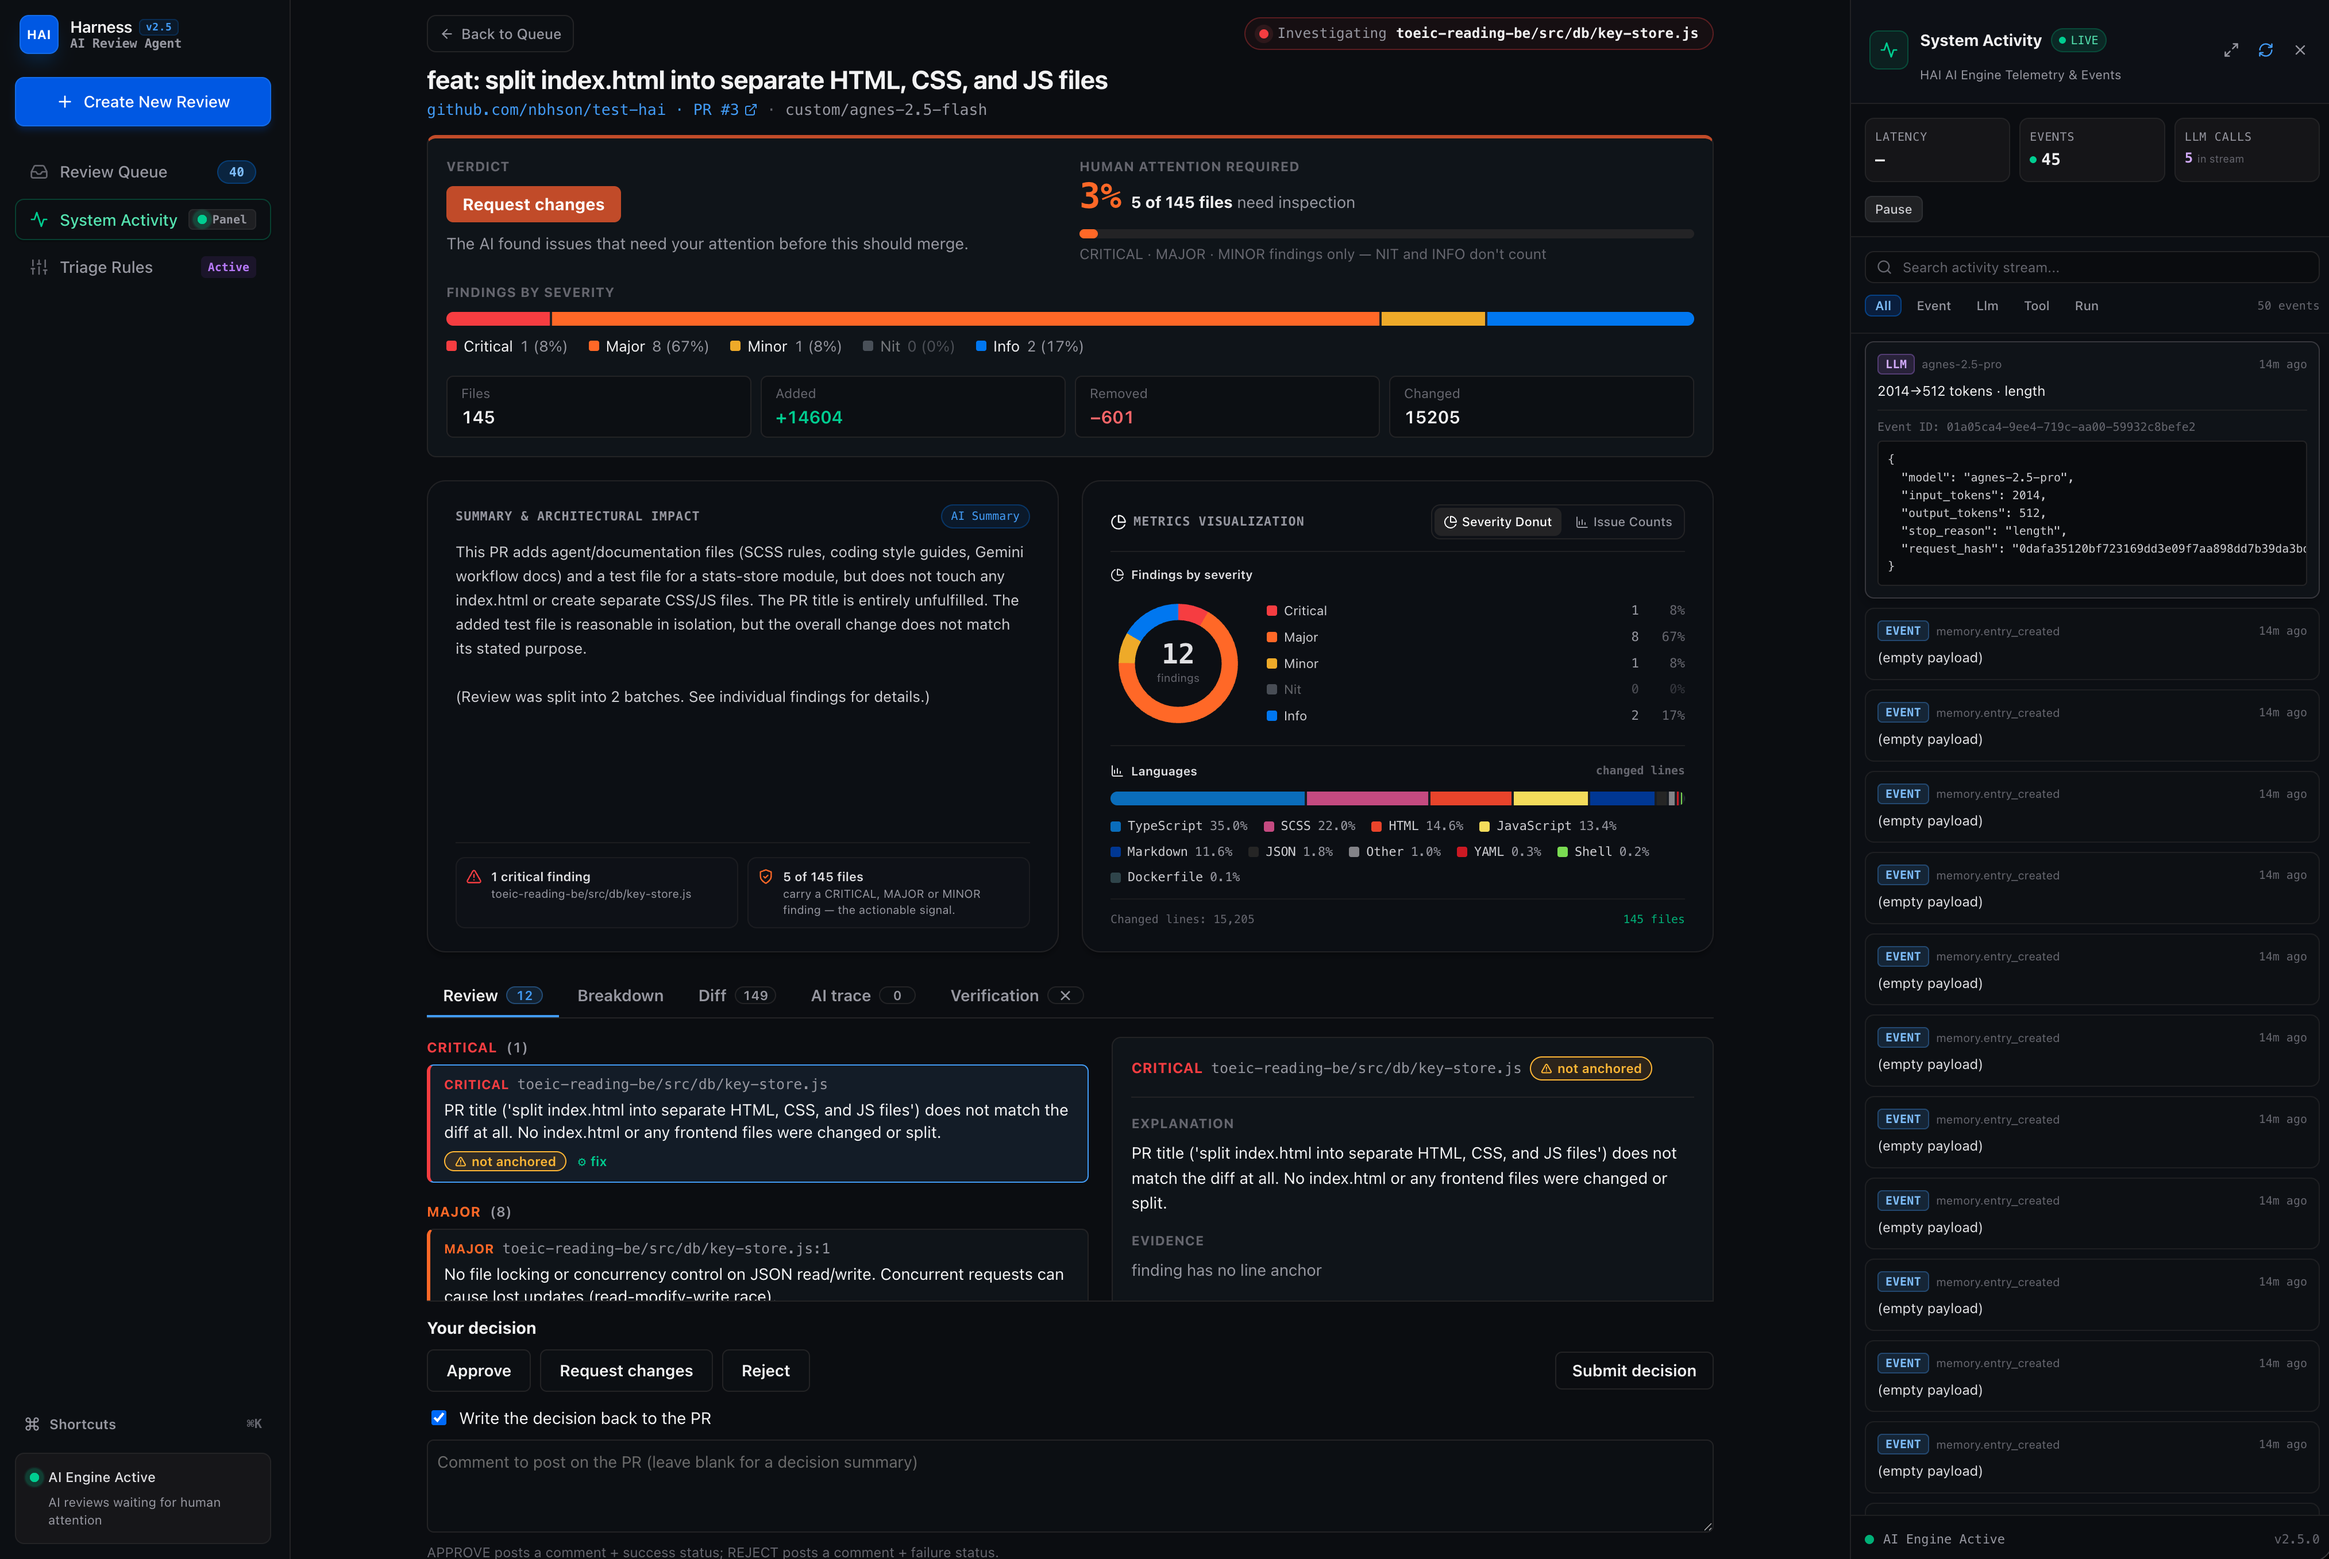
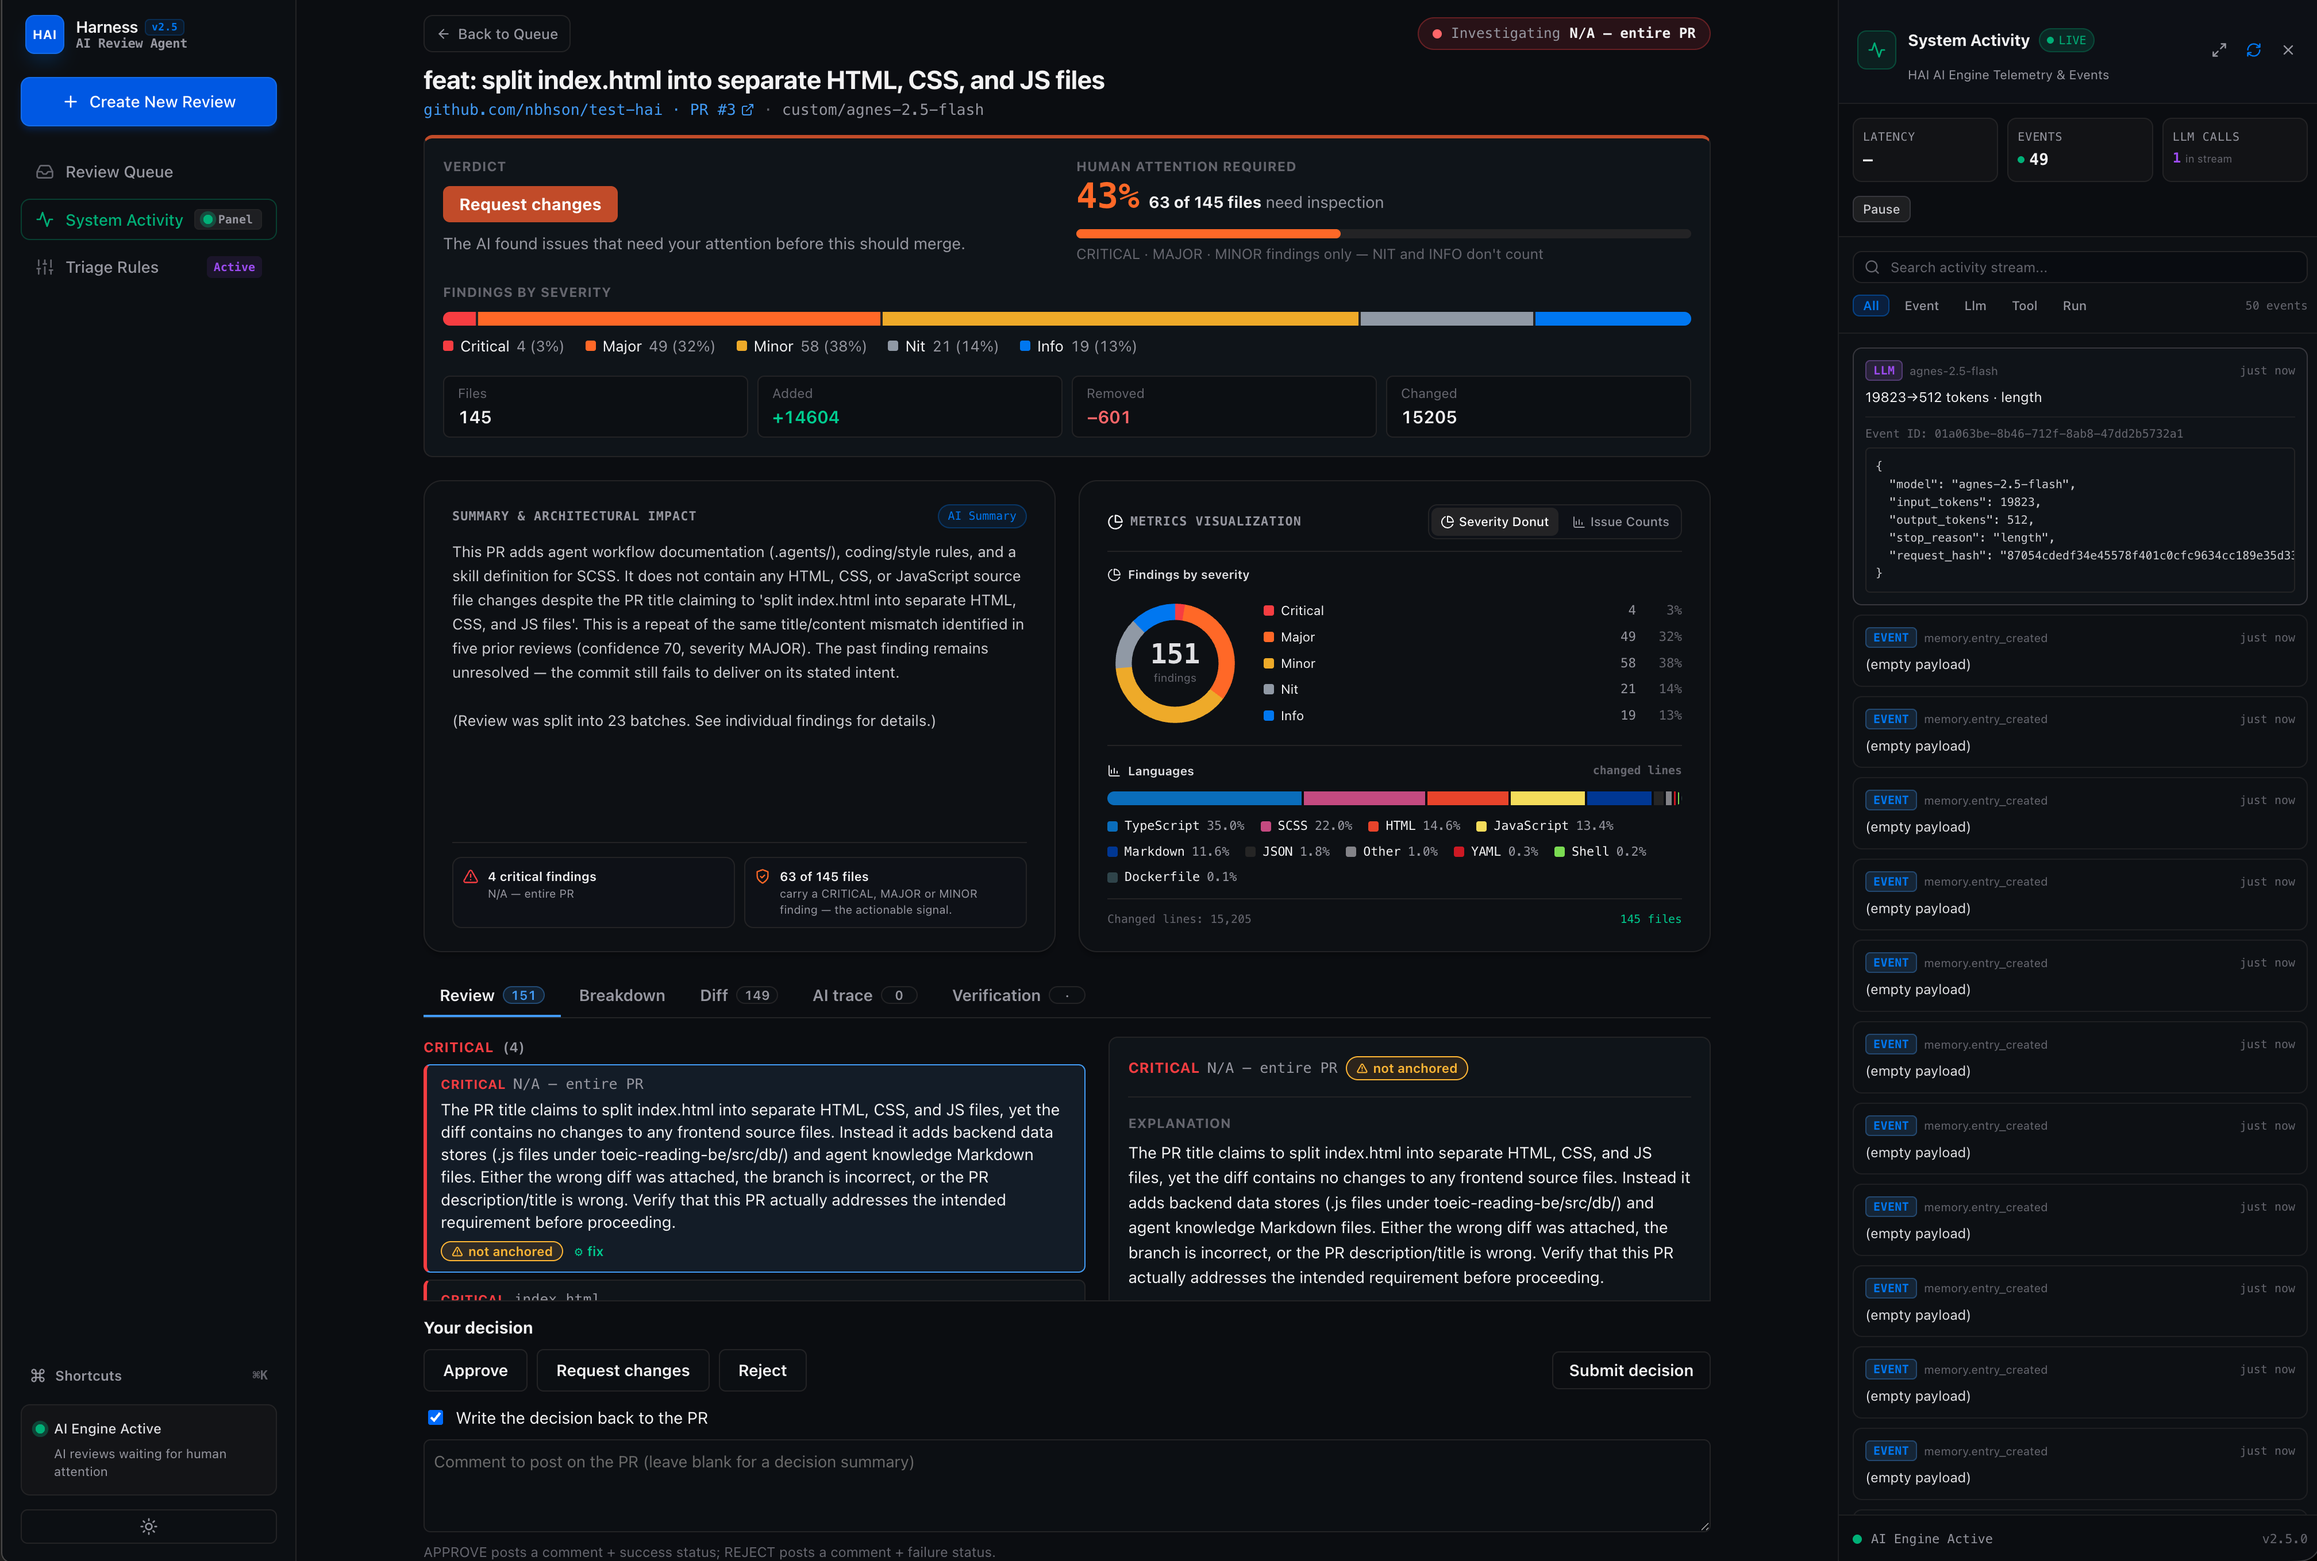
fix(triage-rules): add autoReviewEnabled to PUT body schema
- Add autoReviewEnabled field to TriageRulesBody interface
- Add autoReviewEnabled handling in pickBooleans function
- This fixes the 'provide at least one boolean toggle to update' error
  when toggling auto-review mode ON from the UI

fix: autoReviewMode now correctly differentiates HIGH-SIGNAL vs FULL CODE REVIEW modes

- Add HIGH-SIGNAL FILTER section to prompt when autoReviewMode is OFF
- Pass input autoReviewMode through to review pipeline in processReview
- Thread autoReviewMode through ReviewRequestedPayload event
- Update review worker to pass autoReviewMode from event payload

This fixes the bug where MINOR/NIT/INFO findings were shown regardless of toggle state.

fix: add HIGH-SIGNAL FILTER mode, pass input autoReviewMode to pipeline

fix: include all PR files in review, not just high-relevance primary batch

fix: update migration journal to include 0048, fix DB column missing

diff --git a/packages/agent-runtime/src/review/review-prompt.ts b/packages/agent-runtime/src/review/review-prompt.ts
@@ -54,8 +54,11 @@ export interface ReviewPrompt {
  * prompt produced it. v2: compacted sections, added safety guardrail, added
  * few-shot examples, added chain-of-thought instruction, expanded kind guidance.
  * v3: added `autoReviewMode` flag for full code-review mode (surfaces MINOR/NIT/INFO).
+ * v4: added explicit "HIGH-SIGNAL FILTER" mode instructions when autoReviewMode
+ *     is OFF — now correctly suppresses MINOR/NIT/INFO findings instead of
+ *     returning them alongside CRITICAL/MAJOR.
  */
-export const REVIEW_PROMPT_VERSION = 'reviewer-v3';
+export const REVIEW_PROMPT_VERSION = 'reviewer-v4';
 
 const SYSTEM_PROMPT = `You are a senior code reviewer in the role of a Human-Attention Routing Engine.
 
@@ -332,8 +335,10 @@ export function buildReviewPrompt(input: ReviewPromptInput): ReviewPrompt {
   const memoriesSection = buildMemoriesSection(input.relatedMemories);
 
   const modeSection = autoReviewMode
-    ? `REVIEW MODE: FULL CODE REVIEW\nWhen autoReviewMode is enabled, you are a comprehensive code review tool (like GitHub Copilot Review, SonarQube, or DeepCode). Review ALL aspects of the code: correctness, security, performance, architecture, naming, style, maintainability, and best practices. Report every finding regardless of severity — CRITICAL, MAJOR, MINOR, NIT, and INFO. For MINOR/NIT/INFO findings, focus on genuine engineering value: naming consistency, code organization, potential refactoring opportunities, style improvements, and maintainability concerns. This is NOT a human-attention router — it is a thorough code reviewer.\n`
-    : '';
+    ? `REVIEW MODE: FULL CODE REVIEW
+When autoReviewMode is enabled, you are a comprehensive code review tool (like GitHub Copilot Review, SonarQube, or DeepCode). Review ALL aspects of the code: correctness, security, performance, architecture, naming, style, maintainability, and best practices. Report every finding regardless of severity — CRITICAL, MAJOR, MINOR, NIT, and INFO. For MINOR/NIT/INFO findings, focus on genuine engineering value: naming consistency, code organization, potential refactoring opportunities, style improvements, and maintainability concerns. This is NOT a human-attention router — it is a thorough code reviewer.\n`
+    : `REVIEW MODE: HIGH-SIGNAL FILTER
+When autoReviewMode is disabled (default), you are a human-attention router. ONLY surface CRITICAL and MAJOR findings — these are the only severities you should return. MINOR, NIT, and INFO findings must be suppressed; do not include them in the output. Your job is to filter out low-signal noise and only surface items that require human reasoning or judgment. If all issues are MINOR/NIT/INFO, return an empty findings array and an APPROVE verdict.\n`;
 
   const userMessage = [
     `PULL REQUEST: ${input.prUrl}`,

diff --git a/apps/api/src/routes/triage-rules.ts b/apps/api/src/routes/triage-rules.ts
@@ -5,11 +5,11 @@
  *  - `GET /api/triage-rules` — the current rule state (readable by any review
  *    principal, so the rules page can render without elevating).
  *  - `PUT /api/triage-rules` — upsert a partial `{ securityBlock?,
- *    performanceRegression?, schemaIntegrity? }` patch. Absent keys are left
- *    unchanged; only booleans are accepted. Guarded by `Reviewer`/`Admin` (the
- *    same guard as the review decision route — reviewers may tune their own
- *    triage), matching the "operator-mutable at runtime" intent, not a
- *    secret-bearing ADMIN-only control.
+ *    performanceRegression?, schemaIntegrity?, autoReviewEnabled? }` patch.
+ *    Absent keys are left unchanged; only booleans are accepted. Guarded by
+ *    `Reviewer`/`Admin` (the same guard as the review decision route —
+ *    reviewers may tune their own triage), matching the "operator-mutable at
+ *    runtime" intent, not a secret-bearing ADMIN-only control.
  */
 
 import type { FastifyInstance } from 'fastify';
@@ -22,17 +22,19 @@ import type { DrizzleDB } from '@harness/db';
 
 import { loadTriageRuleState, saveTriageRuleState } from '../triage-rules-store.js';
 
-/** `PUT` body: the three wired toggles, all optional (absent = leave unchanged). */
+/** `PUT` body: the wired toggles, all optional (absent = leave unchanged). */
 interface TriageRulesBody {
   readonly securityBlock?: unknown;
   readonly performanceRegression?: unknown;
   readonly schemaIntegrity?: unknown;
+  readonly autoReviewEnabled?: unknown;
 }
 
 function pickBooleans(body: TriageRulesBody | undefined): Partial<{
   securityBlock: boolean;
   performanceRegression: boolean;
   schemaIntegrity: boolean;
+  autoReviewEnabled: boolean;
 }> {
   if (body === undefined) {
     return {};
@@ -41,12 +43,14 @@ function pickBooleans(body: TriageRulesBody | undefined): Partial<{
     securityBlock?: boolean;
     performanceRegression?: boolean;
     schemaIntegrity?: boolean;
+    autoReviewEnabled?: boolean;
   } = {};
   if (typeof body.securityBlock === 'boolean') patch.securityBlock = body.securityBlock;
   if (typeof body.performanceRegression === 'boolean') {
     patch.performanceRegression = body.performanceRegression;
   }
   if (typeof body.schemaIntegrity === 'boolean') patch.schemaIntegrity = body.schemaIntegrity;
+  if (typeof body.autoReviewEnabled === 'boolean') patch.autoReviewEnabled = body.autoReviewEnabled;
   return patch;
 }
 

diff --git a/apps/api/src/services/review-ingest.ts b/apps/api/src/services/review-ingest.ts
@@ -275,6 +275,7 @@ export class ReviewIngestService {
         correlationId: task.id,
         maxAgentTokens: envInt('AI_MAX_TOKENS', 32_000),
         ...(this.deps.autoReviewMode !== undefined ? { autoReviewMode: this.deps.autoReviewMode } : {}),
+        ...(input.autoReviewMode !== undefined ? { autoReviewMode: input.autoReviewMode } : {}),
       },
       correlationId,
     ).catch((error: unknown) => {
@@ -449,6 +450,7 @@ export class ReviewIngestService {
     input: {
       prUrl: string;
       jiraTicket?: string;
+      autoReviewMode?: boolean;
     },
   ): Promise<void> {
     const { db, bus, gitProvider, ticketProvider, model, logger } = this.deps;
@@ -526,6 +528,8 @@ export class ReviewIngestService {
           model,
           correlationId: reportId,
           maxAgentTokens: envInt('AI_MAX_TOKENS', 32_000),
+          ...(this.deps.autoReviewMode !== undefined ? { autoReviewMode: this.deps.autoReviewMode } : {}),
+          ...(input.autoReviewMode !== undefined ? { autoReviewMode: input.autoReviewMode } : {}),
         },
         brand(reportId, 'CorrelationID'),
         // Per-batch callback: insert findings + suggestions immediately, update progress.
@@ -717,7 +721,10 @@ export class ReviewIngestService {
     });
 
     // If budgeted primary is empty, use the first batch-worth of files.
-    const filesToReview = budgeted.primary.length > 0 ? budgeted.primary : targetFiles.slice(0, maxBatchSize ?? 5);
+    const filesToReview =
+      budgeted.primary.length > 0
+        ? [...budgeted.primary, ...budgeted.overflow] // Include ALL files, not just primary
+        : targetFiles.slice(0, maxBatchSize ?? 5);
 
     // 5. Batch review (parallel), with progressive callback if provided.
     return batchReview(

diff --git a/apps/api/src/routes/reviews.ts b/apps/api/src/routes/reviews.ts
@@ -130,9 +130,11 @@ export function registerReviewIngestRoutes(
         }
         // Fast path: create report with placeholder, publish event, return 202.
         // The actual AI review runs asynchronously via the `review.requested` subscriber.
+        const ruleState = await loadTriageRuleState(db);
         const result = await ingest.createReview({
           prUrl: prUrl.trim(),
           ...(typeof jiraTicket === 'string' && jiraTicket.trim().length > 0 ? { jiraTicket: jiraTicket.trim() } : {}),
+          ...(ruleState.autoReviewEnabled ? { autoReviewMode: true } : {}),
         });
         // Publish event so the background worker picks it up.
         const payload: ReviewRequestedPayload = {
@@ -140,6 +142,7 @@ export function registerReviewIngestRoutes(
           review_report_id: result.reportId,
           pr_url: result.prUrl,
           ...(typeof jiraTicket === 'string' && jiraTicket.trim().length > 0 ? { jira_ticket: jiraTicket.trim() } : {}),
+          ...(ruleState.autoReviewEnabled ? { autoReviewMode: true } : {}),
         };
         bus.publish(createEvent(EventType.ReviewRequested, brand(result.reportId, 'CorrelationID'), payload));
         return reply.code(202).send({

diff --git a/packages/domain/src/events/integration-events.ts b/packages/domain/src/events/integration-events.ts
@@ -58,6 +58,11 @@ export interface ReviewRequestedPayload {
   readonly pr_url: string;
   /** Optional Jira ticket key. */
   readonly jira_ticket?: string;
+  /**
+   * When true, run the review in full code-review mode (all severities).
+   * Defaults to false (high-signal mode, only CRITICAL/MAJOR).
+   */
+  readonly autoReviewMode?: boolean;
 }
 
 /** Payload for {@link import('./event-types.js').EventType.ReviewFixSuggestionCreated}. */

diff --git a/apps/api/src/services/review-worker.ts b/apps/api/src/services/review-worker.ts
@@ -48,6 +48,7 @@ export class ReviewWorkerSubscriber {
     const args: Parameters<typeof this.ingest.processReview>[1] = {
       prUrl: payload.pr_url,
       ...(payload.jira_ticket !== undefined ? { jiraTicket: payload.jira_ticket } : {}),
+      ...(payload.autoReviewMode !== undefined ? { autoReviewMode: payload.autoReviewMode } : {}),
     };
 
     for (let attempt = 1; attempt <= MAX_RETRIES; attempt++) {
